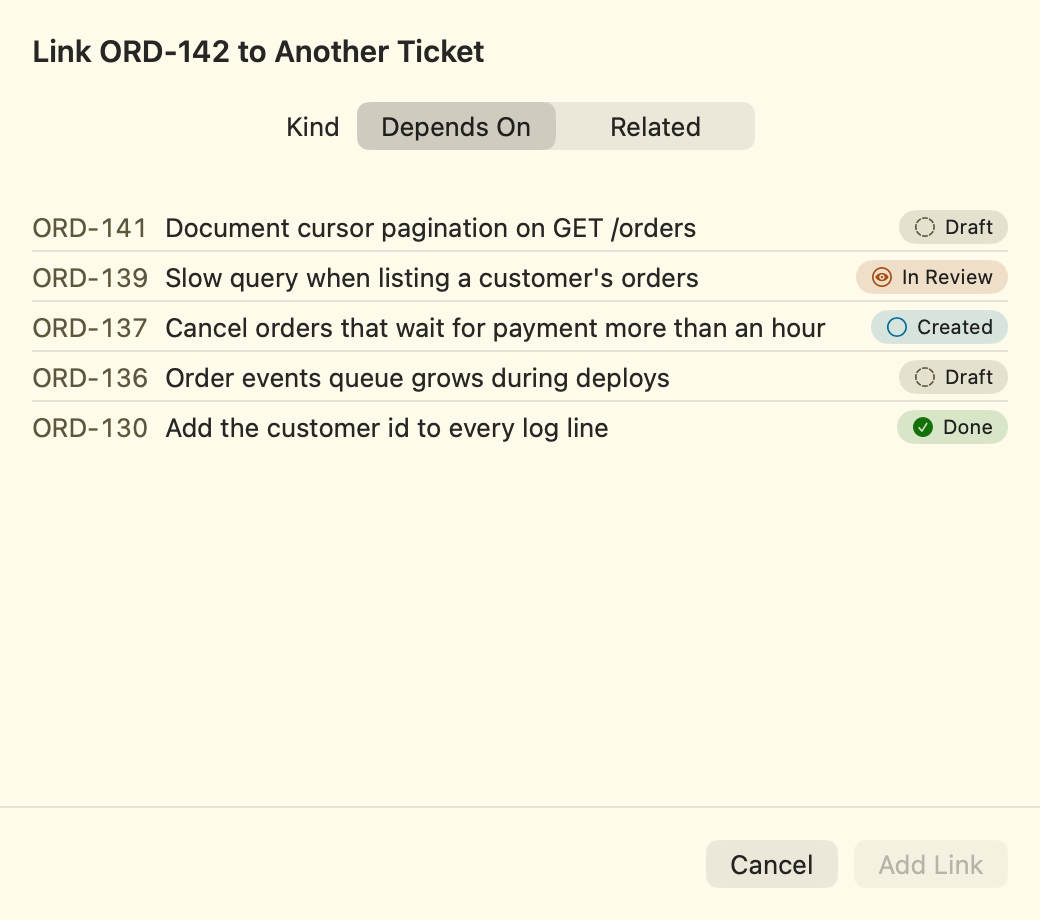
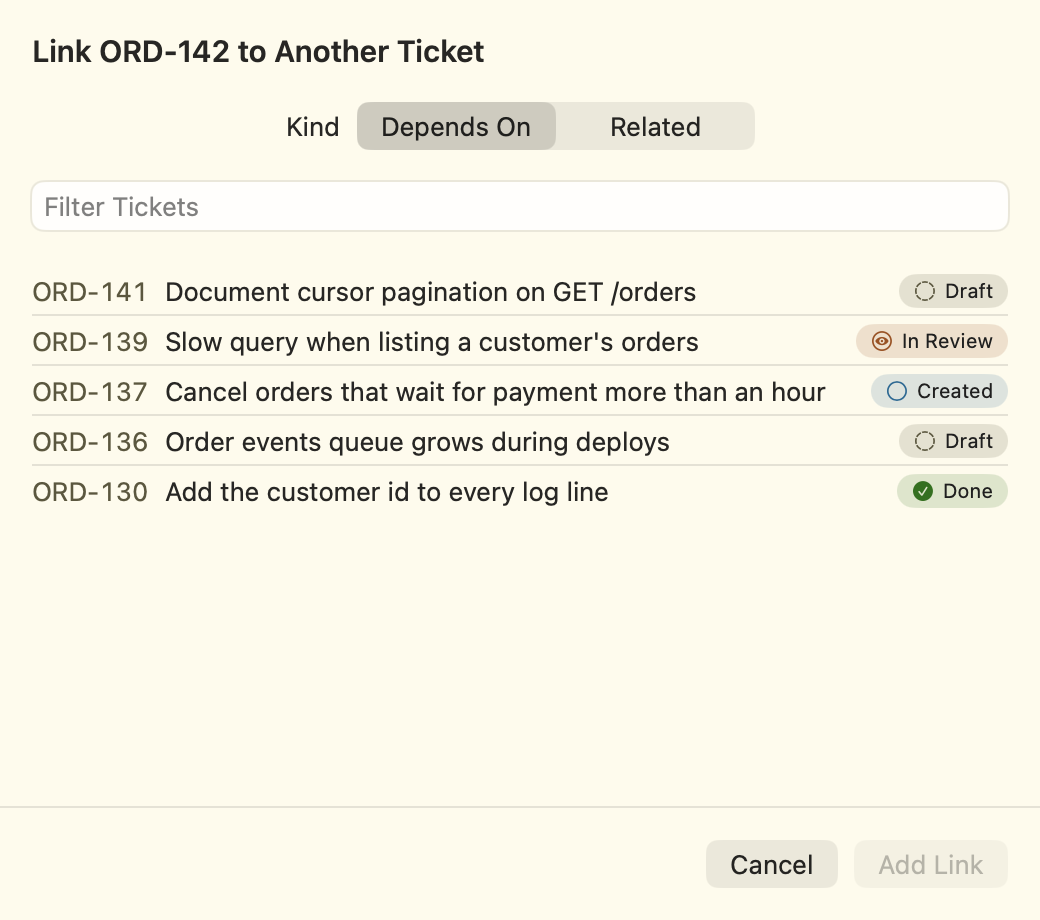
The ticket pickers filter, show statuses, and leave done tickets out of a new bundle
As V2's: Add Link and the bundle sheet have a Filter field, the bundle sheet shows each ticket's status, a
new bundle doesn't list done tickets unless checked, and New Bundle is disabled with the reason when no
ticket can go in.

Changed region(s): [[0.0308, 0.213, 0.9846, 0.5783]]

diff --git a/HephaestusV3Kit/Sources/TicketsKit/TicketSheets.swift b/HephaestusV3Kit/Sources/TicketsKit/TicketSheets.swift
@@ -2,6 +2,28 @@ import AZDesign
 import SwiftUI
 import ToolsFoundation
 
+/// The Filter field of the ticket pickers: a ticket matches by its id or its title, case and accents ignored.
+enum TicketPickerFilter {
+    static func matches(_ ticket: Ticket, _ filter: String) -> Bool {
+        let text = filter.trimmingCharacters(in: .whitespacesAndNewlines)
+        return text.isEmpty || ticket.id.localizedStandardContains(text) || ticket.title.localizedStandardContains(text)
+    }
+}
+
+/// The field over a ticket picker's list.
+private struct TicketPickerFilterField: View {
+    @Binding var text: String
+    let identifier: String
+
+    var body: some View {
+        TextField(String(localized: "Filter", bundle: #bundle), text: $text, prompt: Text("Filter Tickets", bundle: #bundle))
+            .textFieldStyle(.roundedBorder)
+            .padding(.horizontal)
+            .padding(.bottom, 8)
+            .accessibilityIdentifier(identifier)
+    }
+}
+
 /// Add Link: the kind of link, and the ticket of the project it points to.
 struct AddLinkSheet: View {
     let ticket: Ticket
@@ -11,6 +33,7 @@ struct AddLinkSheet: View {
 
     @State private var kind = TicketLinkDraft.Kind.dependsOn
     @State private var target: Ticket.ID?
+    @State private var filter = ""
 
     var body: some View {
         VStack(spacing: 0) {
@@ -27,7 +50,8 @@ struct AddLinkSheet: View {
             .pickerStyle(.segmented)
             .padding()
             .accessibilityIdentifier("addLink.kind")
-            List(candidates, selection: $target) { candidate in
+            TicketPickerFilterField(text: $filter, identifier: "addLink.filter")
+            List(candidates.filter { TicketPickerFilter.matches($0, filter) }, selection: $target) { candidate in
                 HStack {
                     Text(verbatim: candidate.id)
                         .monospacedDigit()
@@ -52,7 +76,8 @@ struct AddLinkSheet: View {
                     if let target { onAdd(TicketLinkDraft(kind: kind, ticketID: target)) }
                 }
                 .keyboardShortcut(.defaultAction)
-                .disabled(target == nil)
+                // A ticket picked, then filtered out, isn't what the user sees: it isn't added.
+                .disabled(target.map { id in !candidates.contains { $0.id == id && TicketPickerFilter.matches($0, filter) } } ?? true)
                 .accessibilityIdentifier("addLink.add")
             }
             .padding()
@@ -70,6 +95,8 @@ struct BundleSheet: View {
     let candidates: [Ticket]
     let onCancel: () -> Void
     let onSave: () -> Void
+
+    @State private var filter = ""
 
     var body: some View {
         VStack(spacing: 0) {
@@ -89,7 +116,8 @@ struct BundleSheet: View {
                 .textFieldStyle(.roundedBorder)
                 .padding()
                 .accessibilityIdentifier("bundle.title")
-            List(candidates) { candidate in
+            TicketPickerFilterField(text: $filter, identifier: "bundle.filter")
+            List(candidates.filter { TicketPickerFilter.matches($0, filter) }) { candidate in
                 Toggle(isOn: Binding {
                     draft.ticketIDs.contains(candidate.id)
                 } set: { isOn in
@@ -101,6 +129,9 @@ struct BundleSheet: View {
                             .foregroundStyle(.textSecondary)
                         Text(verbatim: candidate.title)
                             .lineLimit(1)
+                        Spacer()
+                        Label(candidate.status.title, systemImage: candidate.status.symbol)
+                            .labelStyle(.badge(candidate.status.color))
                     }
                 }
                 .accessibilityIdentifier("bundle.ticket.\(candidate.id)")

diff --git a/HephaestusV3Kit/Tests/TicketsKitTests/TicketsKitTests.swift b/HephaestusV3Kit/Tests/TicketsKitTests/TicketsKitTests.swift
@@ -476,6 +476,33 @@ struct TicketChangeTests {
         #expect(model.filter == .all)
     }
 
+    @Test("A new bundle lists no done ticket unless checked; a bundle's edit lists them all; New Bundle says why it can't")
+    func bundlePicker() {
+        let orders = model("ORD")
+        let new = BundleDraft(bundleID: nil, projectID: "ORD", title: "", ticketIDs: [])
+        #expect(orders.bundleCandidates(for: new).map(\.id) == ["ORD-2"])
+        var checked = new
+        checked.ticketIDs = ["ORD-1"]
+        #expect(orders.bundleCandidates(for: checked).map(\.id) == ["ORD-2", "ORD-1"])
+        let editing = BundleDraft(bundleID: "ORD-B1", projectID: "ORD", title: "Checkout", ticketIDs: ["ORD-2"])
+        #expect(orders.bundleCandidates(for: editing).map(\.id) == ["ORD-2", "ORD-1"])
+        #expect(orders.newBundleUnavailable == nil)
+        let allDone = MockTicketStore(allTickets: [ticket("ORD-1", in: "ORD", .done)], allBundles: [])
+        #expect(model("ORD", store: allDone).newBundleUnavailable == "Every ticket of this project is done.")
+        #expect(model("ORD", store: MockTicketStore(allTickets: [], allBundles: [])).newBundleUnavailable
+                == "This project has no tickets to bundle yet.")
+    }
+
+    @Test("The pickers' filter matches an id or a title, case and accents ignored")
+    func pickerFilter() {
+        let one = ticket("ORD-142", in: "ORD", title: "Retry storm between checkout and paymENTS")
+        #expect(TicketPickerFilter.matches(one, ""))
+        #expect(TicketPickerFilter.matches(one, " 142 "))
+        #expect(TicketPickerFilter.matches(one, "Payments"))
+        #expect(TicketPickerFilter.matches(ticket("ORD-1", in: "ORD", title: "Café"), "cafe"))
+        #expect(!TicketPickerFilter.matches(one, "refund"))
+    }
+
     @Test("The store's phase shows as loading or failed in the list")
     func phases() {
         let loading = TicketsModel(project: Project.sample("ORD")!, focus: nil, store: SampleTicketStore(phase: .loading))

diff --git a/HephaestusV3Kit/Sources/TicketsKit/TicketsRootView.swift b/HephaestusV3Kit/Sources/TicketsKit/TicketsRootView.swift
@@ -67,7 +67,7 @@ public struct TicketsRootView: View {
         }
         .sheet(item: $model.bundleDraft) { draft in
             BundleSheet(draft: Binding { model.bundleDraft ?? draft } set: { model.bundleDraft = $0 },
-                        candidates: model.bundleCandidates(in: draft.projectID),
+                        candidates: model.bundleCandidates(for: draft),
                         onCancel: { model.bundleDraft = nil }, onSave: { Task { await model.saveBundle() } })
         }
         .alert(String(localized: "The Change Failed", bundle: #bundle), isPresented: Binding { model.failure != nil } set: { if !$0 { model.failure = nil } }) {
@@ -420,7 +420,8 @@ private struct TicketSidebar: View {
                 Button(String(localized: "New Bundle", bundle: #bundle), systemImage: "plus") { model.startNewBundle() }
                     .labelStyle(.iconOnly)
                     .buttonStyle(.borderless)
-                    .help(String(localized: "New Bundle", bundle: #bundle))
+                    .disabled(model.newBundleUnavailable != nil)
+                    .help(model.newBundleUnavailable ?? String(localized: "New Bundle", bundle: #bundle))
                     .accessibilityIdentifier("tickets.sidebar.newBundle")
             }
             .padding(.trailing, Self.headerTrailingInset)

diff --git a/HephaestusV3Kit/Sources/TicketsKit/TicketsModel.swift b/HephaestusV3Kit/Sources/TicketsKit/TicketsModel.swift
@@ -504,8 +504,20 @@ final class TicketsModel {
     }
 
     /// The tickets a bundle can hold: its project's.
-    func bundleCandidates(in projectID: Project.ID) -> [Ticket] {
-        store.tickets(of: [projectID])
+    /// The tickets the bundle sheet lists: a new bundle's leave the done ones out, as V2's did, unless checked
+    /// already; a bundle's tickets list them all.
+    func bundleCandidates(for draft: BundleDraft) -> [Ticket] {
+        let tickets = store.tickets(of: [draft.projectID])
+        guard draft.bundleID == nil else { return tickets }
+        return tickets.filter { $0.status != .done || draft.ticketIDs.contains($0.id) }
+    }
+
+    /// Why New Bundle is disabled: no ticket the project has can go in a new one. Nil when one can.
+    var newBundleUnavailable: String? {
+        let tickets = store.tickets(of: [project.id])
+        if tickets.isEmpty { return String(localized: "This project has no tickets to bundle yet.", bundle: #bundle) }
+        if tickets.allSatisfy({ $0.status == .done }) { return String(localized: "Every ticket of this project is done.", bundle: #bundle) }
+        return nil
     }
 
     func saveBundle() async {

diff --git a/docs/ui/tickets.md b/docs/ui/tickets.md
@@ -106,7 +106,8 @@ is selected, the list shows all tickets.
   Orders, Payments and Edge Gateway, indented. Selecting the window's own project row lets through the
   same tickets as **All Tickets**.
 - **Bundles section.** It always appears, so that its header's **New Bundle** button (help "New Bundle") is
-  there. The button, a borderless `plus` in `accent`, ends 16 pt from the sidebar's trailing edge, where the
+  there. The button is disabled when no ticket can go in a new bundle, its help then saying why: "This project
+  has no tickets to bundle yet." or "Every ticket of this project is done." The button, a borderless `plus` in `accent`, ends 16 pt from the sidebar's trailing edge, where the
   rows' content ends: in line with the bundle rows' status symbols and the Status rows' badges, with or without
   a bundle. A section header runs to 2 pt from that edge, so the header has 14 pt of trailing padding. Bundles
   stay per project: a parent's window lists only its own bundles, never its sub projects' (the
@@ -577,23 +578,26 @@ titled by `set-ticket-title` ([Titles written by Claude](#titles-written-by-clau
 
 ## Add Link sheet
 
-![The Add Link sheet: Depends On or Related, and the project's other tickets](images/tickets-add-link.png)
+![The Add Link sheet: Depends On or Related, the filter, and the project's other tickets](images/tickets-add-link.png)
 *Add Link for ORD-142: the kind, then the ticket.*
 
 **Add Link…** opens a sheet, 420 to 480 pt wide: the heading "Link *ORD-142* to Another Ticket", a segmented
-**Kind** picker (Depends On, Related), and the project's tickets that the ticket isn't linked to, each with its
-id, title and status badge. **Add Link** (Return) is disabled until a ticket is picked; **Cancel** (Escape)
+**Kind** picker (Depends On, Related), a **Filter** field ("Filter Tickets": a ticket's id or title, case and
+accents ignored), and the project's tickets that the ticket isn't linked to and that match, each with its id,
+title and status badge, as in V2. **Add Link** (Return) is disabled until a listed ticket is picked; **Cancel** (Escape)
 closes. A link that breaks the link rules (a dependency cycle, a ticket that already links to this one) shows its
 message in an alert and the sheet stays open ([Data › Link rules](../data.md#link-rules)).
 
 ## Bundle sheet
 
-![The New Bundle sheet: the title field and the project's tickets with checkboxes](images/tickets-bundle.png)
-*New Bundle in Orders, two tickets checked.*
+![The New Bundle sheet: the title field, the filter, and the project's tickets with checkboxes and statuses](images/tickets-bundle.png)
+*New Bundle in Orders, two tickets checked; the done ones aren't listed.*
 
 **New Bundle** (the sidebar's `plus`, or **Add to Bundle ▸ New Bundle…**) and **Edit Bundle…** open a sheet,
 420 to 480 pt wide: the heading "New Bundle" or "Edit Bundle", the **Title** field ("Named after its tickets":
-an empty title takes the tickets' titles), and the project's tickets with checkboxes. The bundle holds the
+an empty title takes the tickets' titles), a **Filter** field as Add Link's, and the project's tickets that
+match, with checkboxes and their status badges. A new bundle lists no done ticket, as in V2, unless it is checked
+already; Edit Bundle lists them all. The bundle holds the
 checked tickets in the order they were checked, as the line under the list says ("2 tickets, in the order
 checked."). **Create** (Return, disabled without a ticket) or **Save**, and **Cancel** (Escape). A new bundle is
 selected in the sidebar; a bundle of tickets that are all done starts Done.
@@ -803,8 +807,8 @@ See [Chat](chat.md) for the panel itself.
 | A bundle's **Mentioned In ▸**                                   | `tickets.sidebar.bundle.<id>.mentions`                                                                                                                      | A menu.                                                                                                                                       |
 | Comment editor                                                  | `ticket.commentEditor.text`, `ticket.commentEditor.save`                                                                                                    | None.                                                                                                                                         |
 | **New Bundle** (sidebar)                                        | `tickets.sidebar.newBundle`                                                                                                                                 | Help "New Bundle".                                                                                                                            |
-| Add Link sheet                                                  | `addLink.sheet`, `addLink.kind`, `addLink.ticket.<id>`, `addLink.add`                                                                                       | Heading.                                                                                                                                      |
-| Bundle sheet                                                    | `bundle.sheet`, `bundle.title`, `bundle.ticket.<id>`, `bundle.save`                                                                                         | Heading.                                                                                                                                      |
+| Add Link sheet                                                  | `addLink.sheet`, `addLink.kind`, `addLink.filter`, `addLink.ticket.<id>`, `addLink.add`                                                                     | Heading.                                                                                                                                      |
+| Bundle sheet                                                    | `bundle.sheet`, `bundle.title`, `bundle.filter`, `bundle.ticket.<id>`, `bundle.save`                                                                        | Heading.                                                                                                                                      |
 | Markdown                                                        | None                                                                                                                                                        | Headings keep the header trait; a task box reads "Done" or "Not done".                                                                        |
 | New Ticket sheet                                                | `newTicket.sheet`                                                                                                                                           | Contains every field of the sheet.                                                                                                            |
 | New Ticket heading                                              | None                                                                                                                                                        | Heading.                                                                                                                                      |
